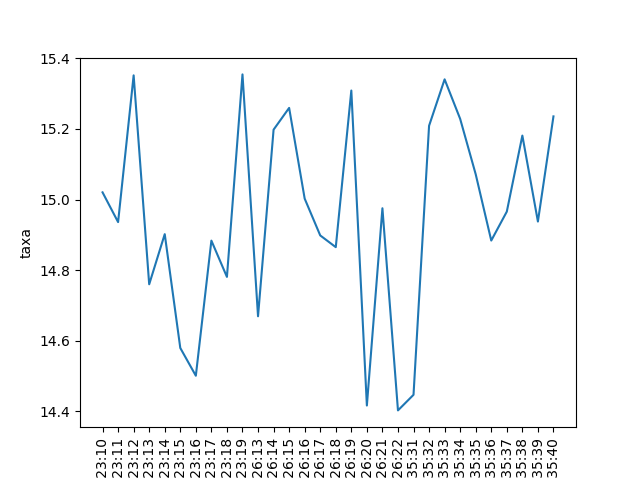
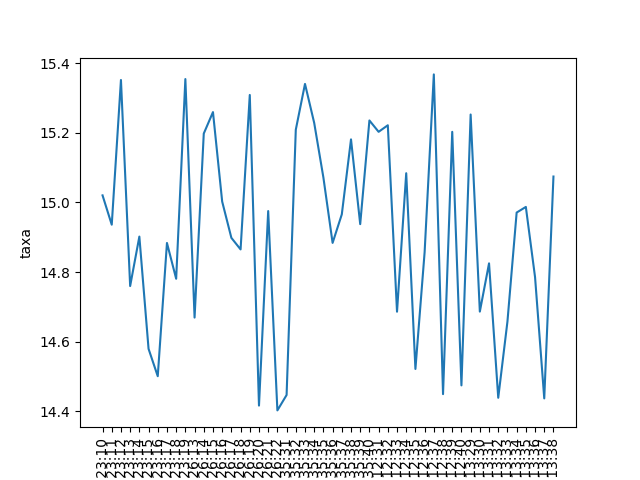
add analise

diff --git a/analise.py b/analise.py
@@ -1,0 +1,47 @@
+import os
+import time
+import json
+from random import random
+from datetime import datetime
+import requests
+from sys import argv
+import pandas as pd
+import seaborn as sns
+
+URL = 'https://api.bcb.gov.br/dados/serie/bcdata.sgs.4392/dados'
+
+try:
+ response = requests.get(url=URL)
+ response.raise_for_status()
+except requests.HTTPError as exc:
+ print("Dado não encontrado, continuando.")
+ cdi = None
+except Exception as exc:
+ print("Erro, parando a execução.")
+ raise exc
+else:
+ dado = json.loads(response.text)[-1]['valor']
+
+
+for _ in range(0, 10):
+ data_e_hora = datetime.now()
+ data = datetime.strftime(data_e_hora, '%Y/%m/%d')
+ hora = datetime.strftime(data_e_hora, '%H:%M:%S')
+ cdi = float(dado) + (random() - 0.5)
+
+ if os.path.exists('./taxa-cdi.csv') == False:
+  with open(file='./taxa-cdi.csv', mode='w', encoding='utf8') as fp:
+   fp.write('data,hora,taxa\n')
+
+ with open(file='./taxa-cdi.csv', mode='a', encoding='utf8') as fp:
+  fp.write(f'{data},{hora},{cdi}\n')
+ time.sleep(1)
+
+print("Sucesso")
+
+
+df = pd.read_csv('./taxa-cdi.csv')
+
+grafico = sns.lineplot(x=df['hora'], y=df['taxa'])
+_ = grafico.set_xticklabels(labels=df['hora'], rotation=90)
+grafico.get_figure().savefig(f"{argv[1]}.png")
